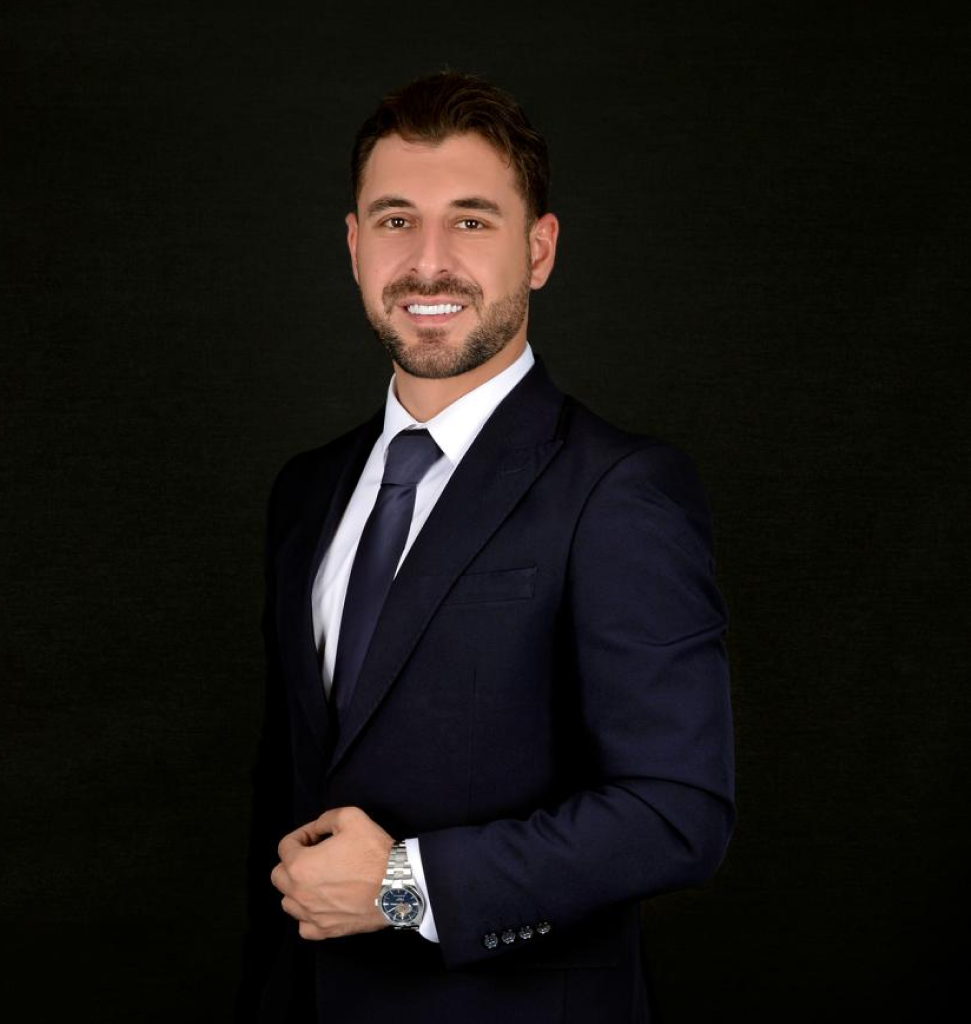
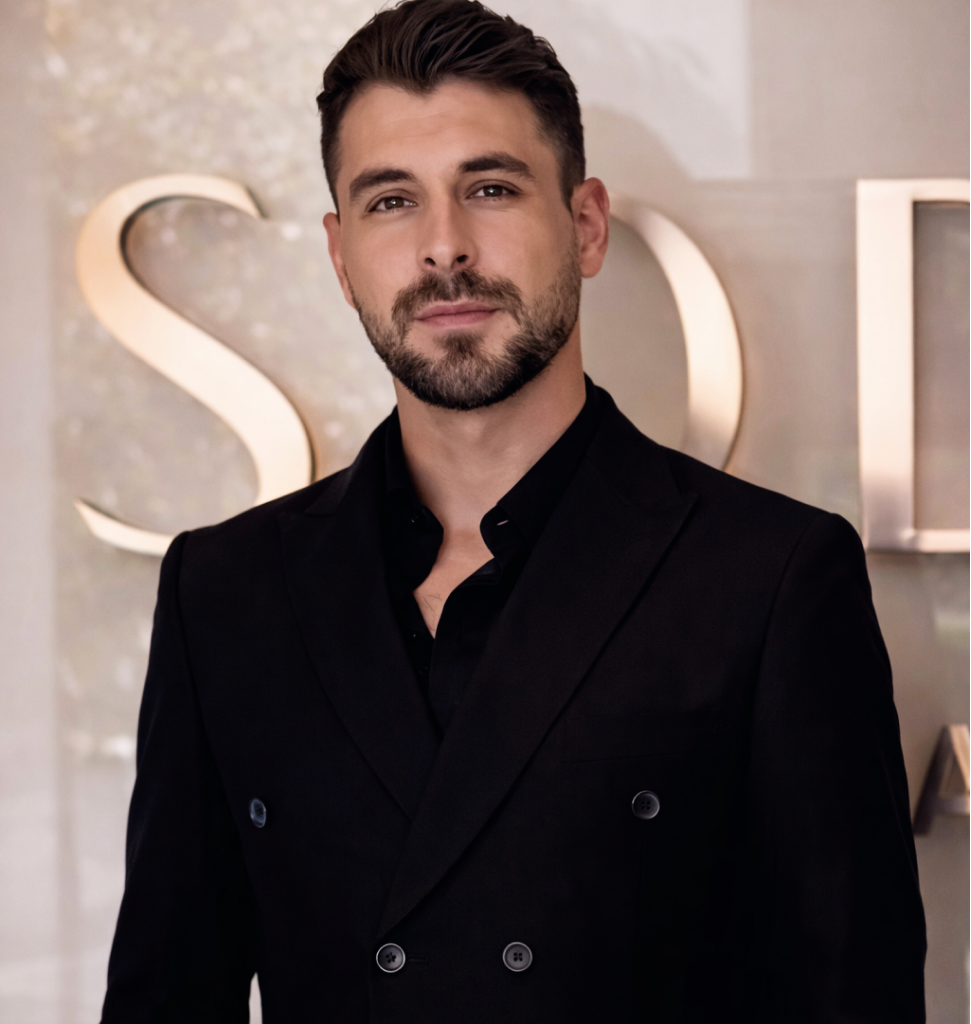
change

diff --git a/css/off-plan-projects.css b/css/off-plan-projects.css
@@ -185,7 +185,7 @@ img { max-width: 100%; display: block; }
 }
 
 .content-block {
-    max-width: 1200px;
+    max-width: 1400px;
     margin: 0 auto 120px;
     display: flex;
     gap: 80px;
@@ -227,6 +227,7 @@ ul.luxury-list li {
     margin-bottom: 15px;
     color: var(--rent-grey);
     font-size: 18px;
+    line-height: 1.2;
     font-family: 'work sans', sans-serif;
 
 }
@@ -342,9 +343,9 @@ ul.luxury-list li::before {
     overflow: hidden;
     /* Premium Box Shadow */
      box-shadow: 
-        0 40px 100px rgba(46, 46, 46, 0.6), 
-        0 10px 40px rgba(22, 22, 22, 0.4),
-        0 0 100px rgba(14, 13, 13, 0.03); 
+        0 1px 1px rgba(46, 46, 46, 0.6), 
+        0 1px 1px rgba(22, 22, 22, 0.4),
+        0 0 1px rgba(14, 13, 13, 0.03); 
         
     border: 1px solid rgba(43, 43, 43, 0.03); /* Ghost border */
 }
@@ -881,7 +882,7 @@ ul.luxury-list li::before {
 .offplan-section{
     padding:100px 0 20px;
     background:#0b0b0b;
-    color:#fff;
+    color:#fff;     
 }
 
 @media(max-width: 768px){
@@ -929,8 +930,10 @@ ul.luxury-list li::before {
 
 .section-desc{
     color:#bdbdbd;
-    margin-bottom:35px;
-}
+    margin-bottom:35px; 
+    font-size: 18px;
+    line-height: 1.4;
+}   
 
 .offplan-features{
     display:grid;
@@ -955,12 +958,14 @@ ul.luxury-list li::before {
 
 .feature-box h4{
     margin:0;
-    font-size:16px;
+    font-size:20px !important;
+    font-weight: 500 !important;
 }
 
 .feature-box p{
-    font-size:13px;
+    font-size:18px;
     color:#bdbdbd;
+    padding: 10px 0px 0px 0px !important;
 }
 
 .feature-box:hover{
@@ -994,7 +999,7 @@ ul.luxury-list li::before {
 /* Risks and Safety Regulations (RERA) */
 /* Section Wrapper */
 .rera-safety-section{
-    max-width: 950px;
+    max-width: 1400px;
     margin: 0 auto;
     padding: 100px 20px;
     text-align: center;

diff --git a/css/buy.css b/css/buy.css
@@ -498,7 +498,7 @@ body {
 
 /* The FAQ Card - Curved & High Shadow */
 .rent-pg-faq-item {
-    max-width: 1000px;
+    max-width: 1000px;  
     margin: 0 auto 20px;
     background: rgba(5, 5, 5, 0.918); /* Darker glass for better contrast */
     backdrop-filter: blur(20px);
@@ -509,9 +509,9 @@ body {
     overflow: hidden;
     /* Premium Box Shadow */
      box-shadow: 
-        0 40px 100px rgba(46, 46, 46, 0.6), 
-        0 10px 40px rgba(22, 22, 22, 0.4),
-        0 0 100px rgba(14, 13, 13, 0.03); 
+        0 2px 0px rgba(46, 46, 46, 0.6), 
+        0 0px 5px rgba(22, 22, 22, 0.4),
+        0 0 5px rgba(14, 13, 13, 0.03); 
         
     border: 1px solid rgba(43, 43, 43, 0.03); /* Ghost border */
 }

diff --git a/about-us.php b/about-us.php
@@ -10,7 +10,9 @@
         <video autoplay muted loop playsinline>
             <source src="video/Final_V03.mp4" type="video/mp4">
         </video>
+
     </div>
+
     <div class="hero-overlay"></div>
     <div class="hero-content fade-in">
         <p class="hero-subtitle">The Quadra Standard</p>
@@ -83,7 +85,6 @@
         </div>
     </div>
 </section>
-
 
 <!-- Team section  -->
 <section class="team-hero-section">
@@ -162,7 +163,7 @@
     <div class="invest-container">
 
         <div class="invest-image-wrapper">
-            <img src="image/WhatsApp Image 2026-02-12 at 3.03.48 PM (1).jpeg" alt="Burj Al Arab, Dubai" class="invest-image">
+            <img src="image/d.png" alt="Burj Al Arab, Dubai" class="invest-image">
         </div>
 
         <div class="invest-content">
@@ -201,7 +202,7 @@
                 </div>
                 <div class="story-right">
                     <video autoplay loop muted playsinline class="story-video">
-                        <source src="" type="video/mp4">
+                        <source src="video/Final_V02_vertical_.mp4" type="video/mp4">
                     </video>
                 </div>
             </div>
@@ -251,7 +252,7 @@
                 Why Invest In <br><span class="accent-text">DUBAI?</span>
             </h2>
             <div class="invest-sticky-image anim-zoom-in scroll-anim delay-200">
-                <img src="image/WhatsApp Image 2026-02-12 at 3.03.50 PM (1).jpeg" alt="Museum of the Future, Dubai">
+                <img src="image/c.png" alt="Museum of the Future, Dubai">
             </div>
         </div>
 

diff --git a/off-plan-projects.php b/off-plan-projects.php
@@ -243,7 +243,7 @@
                 Buying off-plan in Dubai allows investors to secure premium properties at competitive prices with structured payment plans spread across construction milestones. This makes off-plan real estate one of the most attractive investment strategies in Dubai’s rapidly growing property market.</p>
         </div>
         <div class="img-side">
-            <img src="https://images.unsplash.com/photo-1503387762-592deb58ef4e?auto=format&fit=crop&w=800&q=80" alt="Blueprint">
+            <img src="image/A.png" alt="Blueprint">
         </div>
     </div>
 
@@ -261,7 +261,7 @@
             <p class="block-text">Whether you are looking to buy a luxury apartment in Dubai or invest in a high-yield villa project, QH Properties provides tailored solutions aligned with your investment strategy.</p>
         </div>
         <div class="img-side">
-            <img src="https://images.unsplash.com/photo-1546412414-e1885259563a?auto=format&fit=crop&w=800&q=80" alt="Skyline">
+            <img src="image/B.png" alt="Skyline">
         </div>
     </div>
 </div>

diff --git a/buy.php b/buy.php
@@ -276,7 +276,7 @@
         </div> -->
 
         <div class="invest-image-wrapper slide-left">
-        <img src="image/WhatsApp Image 2026-02-12 at 3.03.48 PM (1).jpeg"
+        <img src="image/e.png"
             alt="Burj Al Arab, Dubai"
             class="invest-image">
         </div>
@@ -340,7 +340,7 @@
         </div>
 
     <div class="invest-image-wrapper slide-right">
-        <img src="image/WhatsApp Image 2026-02-12 at 3.03.48 PM (1).jpeg"
+        <img src="image/f.png"
             alt="Burj Al Arab, Dubai"
             class="invest-image">
     </div>
